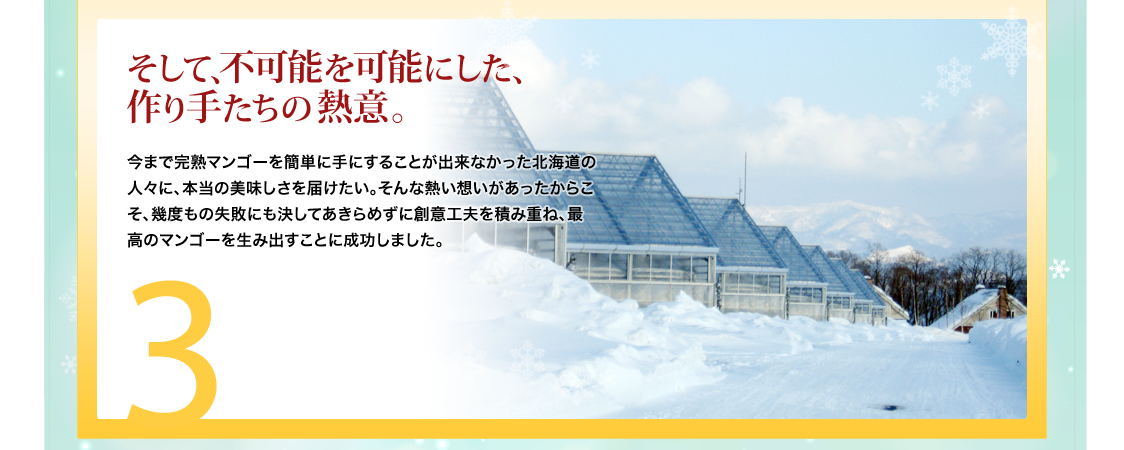
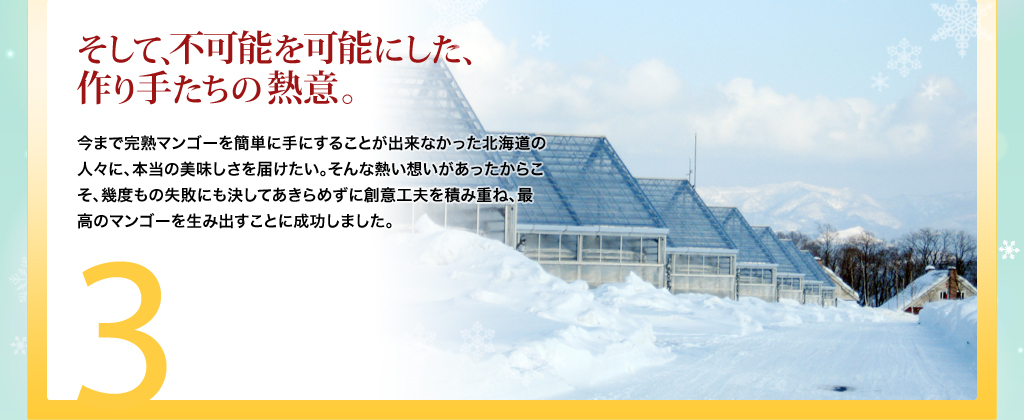
up

diff --git a/Ex-5/css/style.css b/Ex-5/css/style.css
@@ -3,12 +3,8 @@
     margin: 0;
     padding: 0;
 }
-body{
-    background-image: url(../img/bg.png);
-}
-
 .wapper {
-    width: 1124px;
+    width: 1024px;
     margin: 0 auto;
     position: relative;
     
@@ -23,7 +19,7 @@ ul{
 
 .Product-promotion li:nth-child(odd) a {
     bottom: 25px;
-    left: 115px;
+    left: 67px;
 }
 
 .Product-promotion li:nth-child(odd) a{
@@ -31,7 +27,7 @@ ul{
     position: absolute;
     width: 418px;
     height: 48px;
-    background: url(../img/btn_mango_on.png);
+    background: url(../img/btn_mango_off.png);
     z-index: 1;
 }
 .Product-promotion li{
@@ -46,7 +42,7 @@ ul li{
 
 .Product-promotion li:nth-child(even) a {
     bottom: 25px;
-    right: 115px;
+    right: 67px;
 }
 
 .Product-promotion li:nth-child(even) a{
@@ -54,35 +50,17 @@ ul li{
     position: absolute;
     width: 418px;
     height: 48px;
-    background: url(../img/btn_mango_on.png);
+    background: url(../img/btn_mango_off.png);
     z-index: 1;
 }
 .Product-promotion li a:hover {
-    background: url(../img/btn_mango_off.png);
+    background: url(../img/btn_mango_on.png);
 }
 .titel-step-by-step{
     margin-top: 18px;
     max-height: 207px;
 }
-.step-1{
-    max-height: 410px;
-}
-.step-2{
-    max-height: 411px;
-}
-.step-3 {
-    max-height: 450px;
-}
-.feedback {
-    max-height: 558px;
-}
-.combo {
-    max-height: 714px;
-}
-.title-sales{
-    max-height: 204px;
-}
-.contact {
-    max-height: 222px;
+img {
+    display: block;
 }
 

diff --git a/Ex-6/css/style.css b/Ex-6/css/style.css
@@ -7,31 +7,33 @@ body{
     color: #097680;
     font-size: 10px;
     font-weight: bold;
-    background-image: url(../img/wall-texture.jpg);
 }
 .wapper{
     margin: 0 auto;
     max-width: 860px
 }
-.wapper img{
+/* .wapper img{
     display: block;
     max-width: 100%;
+} */
+.Video{
+    background-image: url(../img/video.jpg);
 }
-.video-content{
+/* .video-content{
     position: relative;
-}
-.btn{
+} */
+/* .btn{
     background-image: url(../img/btn.png);
     position: relative;
     z-index: 10;
     top: 600px;
     /* left: auto; */
     /* margin: 0 auto; */
-    margin-left: 90px;
+    /* margin-left: 90px;
     background-size: contain;
     width: 681px;
     height: 85px;
-}
+} */ 
 .Video{
     max-height: 837px;
 }
@@ -64,3 +66,20 @@ p.content__title {
     font-family: monospace;
     margin-top: 20px;
 }
+
+button {
+    margin: 70px auto 30px 0;
+}
+.Video{
+    text-align: center;
+}
+iframe {
+    margin-bottom: 70px;
+}
+h2 {
+    margin-bottom: 20px;
+}
+h1 {
+    padding-bottom: 16px;
+}
+

diff --git a/Ex-6/index.html b/Ex-6/index.html
@@ -13,8 +13,11 @@
             <img src="./img/header__banner.png" alt="">
         </div>
         <div class="Video">
-            <img class="video-content" src="./img/video.jpg" alt="">
-            <a class="btn" href=""></a>
+            <!-- <img class="video-content" src="./img/video.jpg" alt=""> -->
+            <button><img src="./img/btn.png" alt=""></button>
+            <iframe width="640" height="392" src="https://www.youtube.com/embed/RO4T1jsnWDg?start=23" frameborder="0" allow="accelerometer; autoplay; encrypted-media; gyroscope; picture-in-picture" allowfullscreen></iframe>
+            <h2><img src="./img/header__txt.png" alt=""></h2>
+            <h1> <img src="./img/header__txt--2.png" alt=""></h1>
         </div>
         <div class="Product">
             <img src="./img/product.png" alt="">
